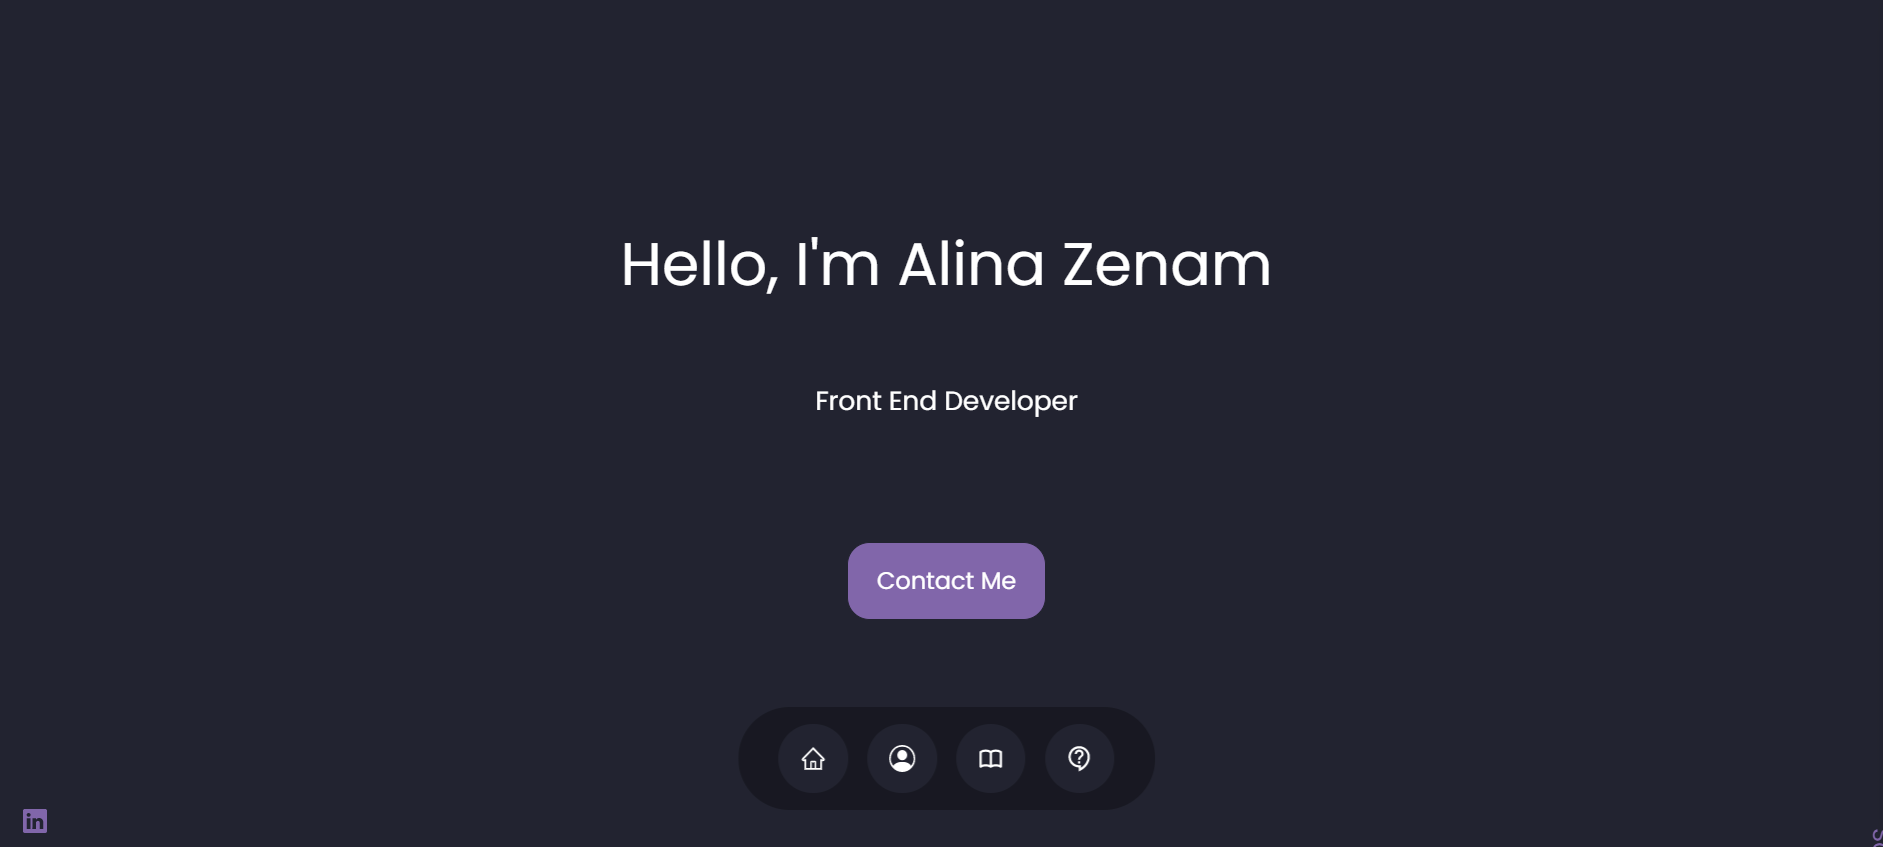
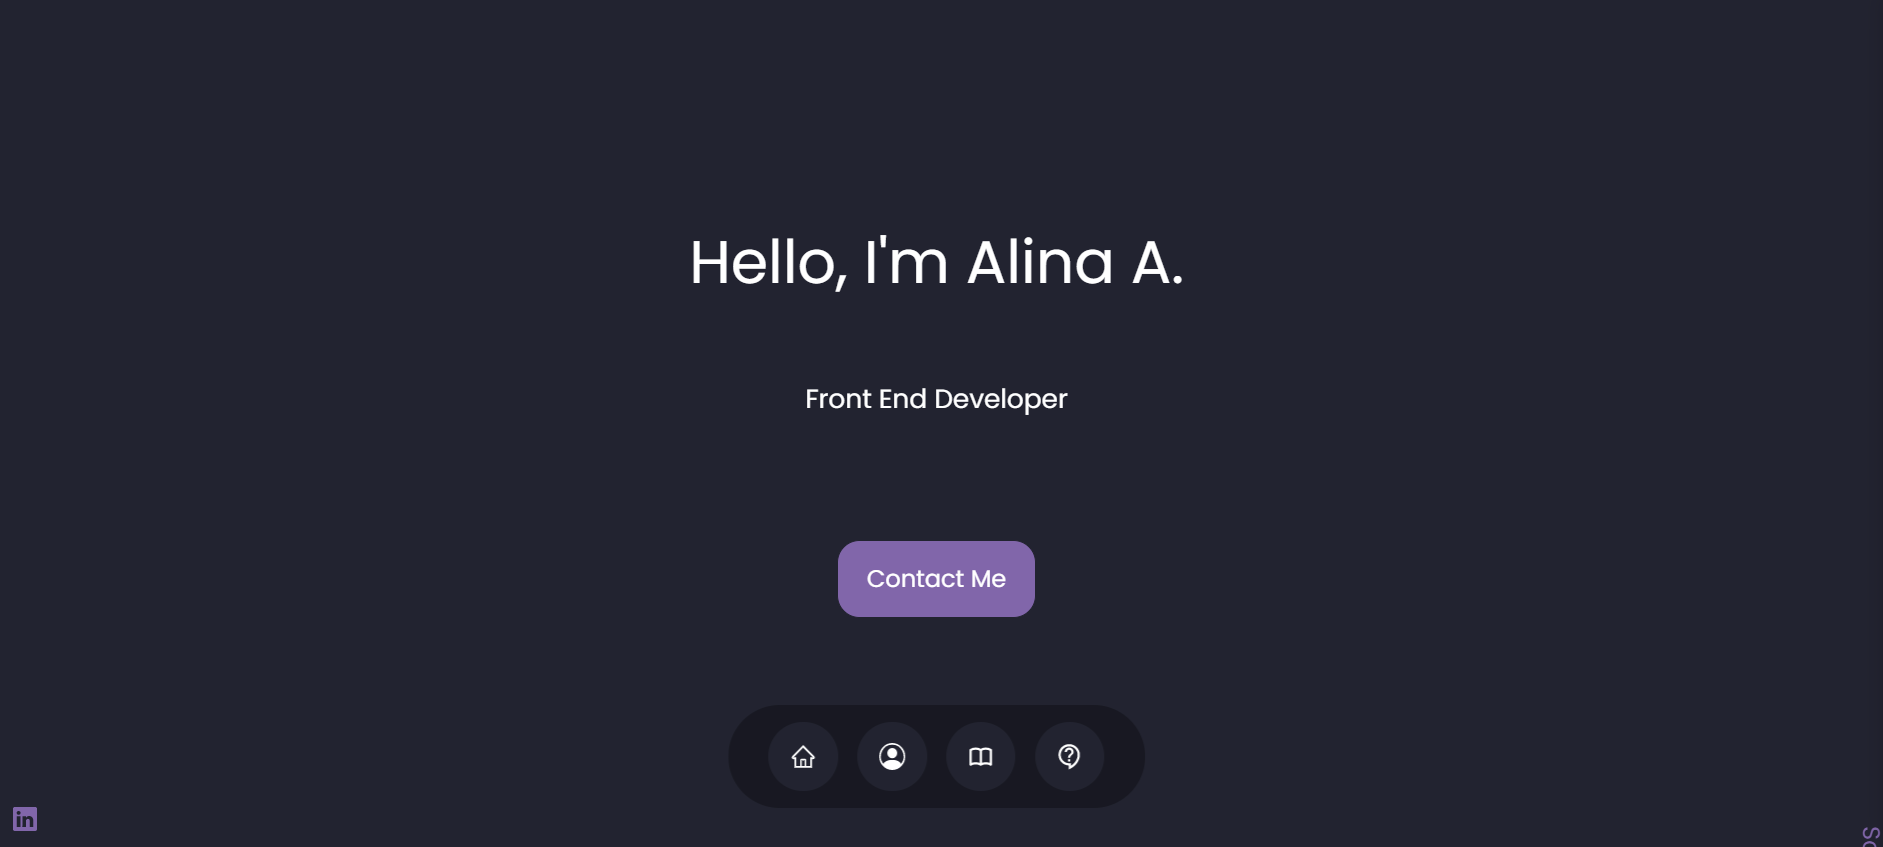
name changed

diff --git a/src/components/projects/Projects.jsx b/src/components/projects/Projects.jsx
@@ -4,6 +4,7 @@ import img1 from '../../images/weatherapp.png'
 import img2 from '../../images/recipedia.png'
 import img3 from '../../images/planner.png'
 import img4 from '../../images/movieapp.png'
+import img5 from '../../images/reelsoffortune.png'
 import img6 from '../../images/passwordgenerator.png'
 
 
@@ -41,10 +42,10 @@ const portfolioData = [
     },
     {
       id: 5,
-    //   image: 
+      image: img5,
       title: 'Reels of Fortune',
       github: 'https://github.com/al946x/reelsoffortune',
-      demo: ''
+      demo: 'https://reelsoffortune.netlify.app/'
     },
     {
       id: 6,

diff --git a/public/index.html b/public/index.html
@@ -7,7 +7,7 @@
   <link rel="preconnect" href="https://fonts.googleapis.com">
 <link rel="preconnect" href="https://fonts.gstatic.com" crossorigin>
 <link href="https://fonts.googleapis.com/css2?family=Poppins&display=swap" rel="stylesheet">
-  <title>Alina Zenam | Front End Developer</title>
+  <title>Alina A. | Front End Developer</title>
    <link rel="icon" href="/src/images/me.png" type="image/x-icon">
 </head>
 <body>

diff --git a/src/components/header/Header.jsx b/src/components/header/Header.jsx
@@ -10,7 +10,7 @@ const Header = () => {
     return (
         <header>
             <div className="header-container">
-                <h1> Hello, I'm Alina Zenam</h1>
+                <h1> Hello, I'm Alina A.</h1>
                 <h5> Front End Developer</h5>
                 <CTA />
                 <HeaderSocials />

diff --git a/src/components/footer/Footer.jsx b/src/components/footer/Footer.jsx
@@ -4,7 +4,7 @@ import './footer.css'
 const Footer = () => {
     return (
         <div className="footer">
-            <p>Designed & Developed by Alina Zenam</p>
+            <p>Designed & Developed by Alina A.</p>
         </div>
     )
 }

diff --git a/src/components/contact/Contact.jsx b/src/components/contact/Contact.jsx
@@ -2,6 +2,7 @@ import React from 'react'
 import './contact.css'
 import {BsEnvelope} from 'react-icons/bs'
 
+
 const Contact = () => {
   return (
 <section id='contact'>
